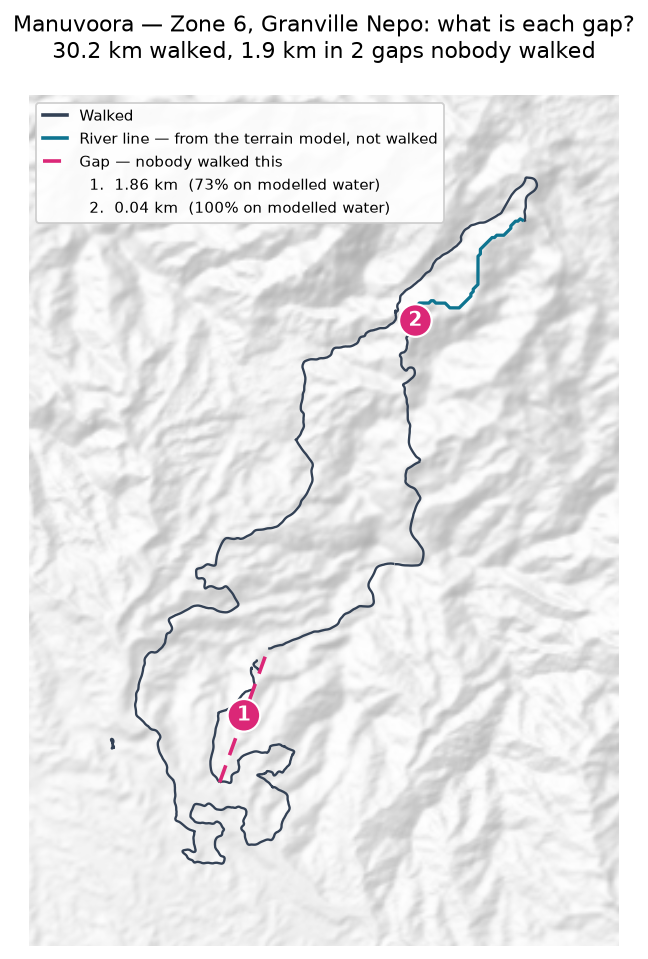
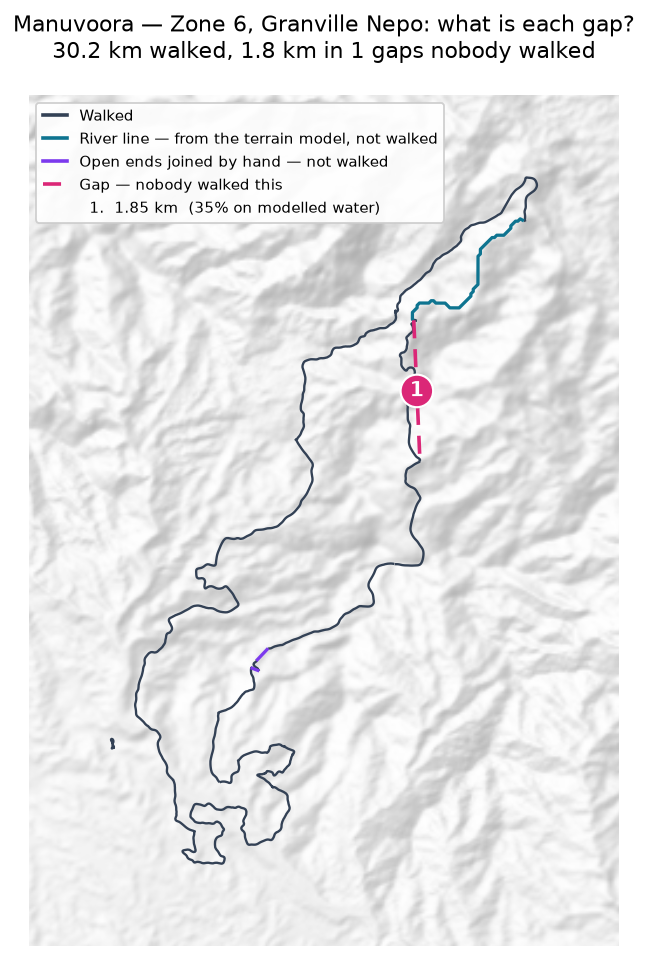
Join Manuvoora's open ends 7-8 and 9-10 by hand
Two breaks in Granville Nepo's recording, 122 m and 225 m, where the western
piece, a 200 m hook and the north-eastern piece all stop short of each other.
Joined straight, and recorded as what they are: editorial joins between two
recorded open ends, decided from the map. Nobody walked them and the field
did not specify them, so they are held as `end_joined` in gap_resolutions —
kept apart from walked line, from the river route, and from anything the
clan has told us.

Manuvoora only. No change to how any other survey is closed.

Claude-Session: https://claude.ai/code/session_01K6X75MkuiGQ9rmgDZx45vk

diff --git a/scripts/gap_map.py b/scripts/gap_map.py
@@ -40,6 +40,7 @@ WALK_COLOUR = "#334155"
 GAP_COLOUR = "#db2777"
 RIVER_COLOUR = "#0e7490"
 AGREED_COLOUR = "#15803d"
+JOINED_COLOUR = "#7c3aed"
 
 
 def parts_of(frame: gpd.GeoDataFrame) -> list:
@@ -79,7 +80,8 @@ def render(clan: str, zone: str, group: gpd.GeoDataFrame, bridges: list,
     kinds = set()
     if derived is not None and len(derived):
         for kind, colour in (("river_routed", RIVER_COLOUR),
-                             ("agreed_straight", AGREED_COLOUR)):
+                             ("agreed_straight", AGREED_COLOUR),
+                             ("end_joined", JOINED_COLOUR)):
             rows = derived[derived["kind"] == kind]
             if rows.empty:
                 continue
@@ -118,6 +120,9 @@ def render(clan: str, zone: str, group: gpd.GeoDataFrame, bridges: list,
     if "agreed_straight" in kinds:
         legend.append(Line2D([0], [0], color=AGREED_COLOUR, lw=2,
                              label="Straight line the clan agrees to"))
+    if "end_joined" in kinds:
+        legend.append(Line2D([0], [0], color=JOINED_COLOUR, lw=2,
+                             label="Open ends joined by hand — not walked"))
     legend.append(Line2D([0], [0], color=GAP_COLOUR, lw=2, linestyle=(0, (5, 3)),
                          label="Gap — nobody walked this"))
     for number, km, share in rows:
